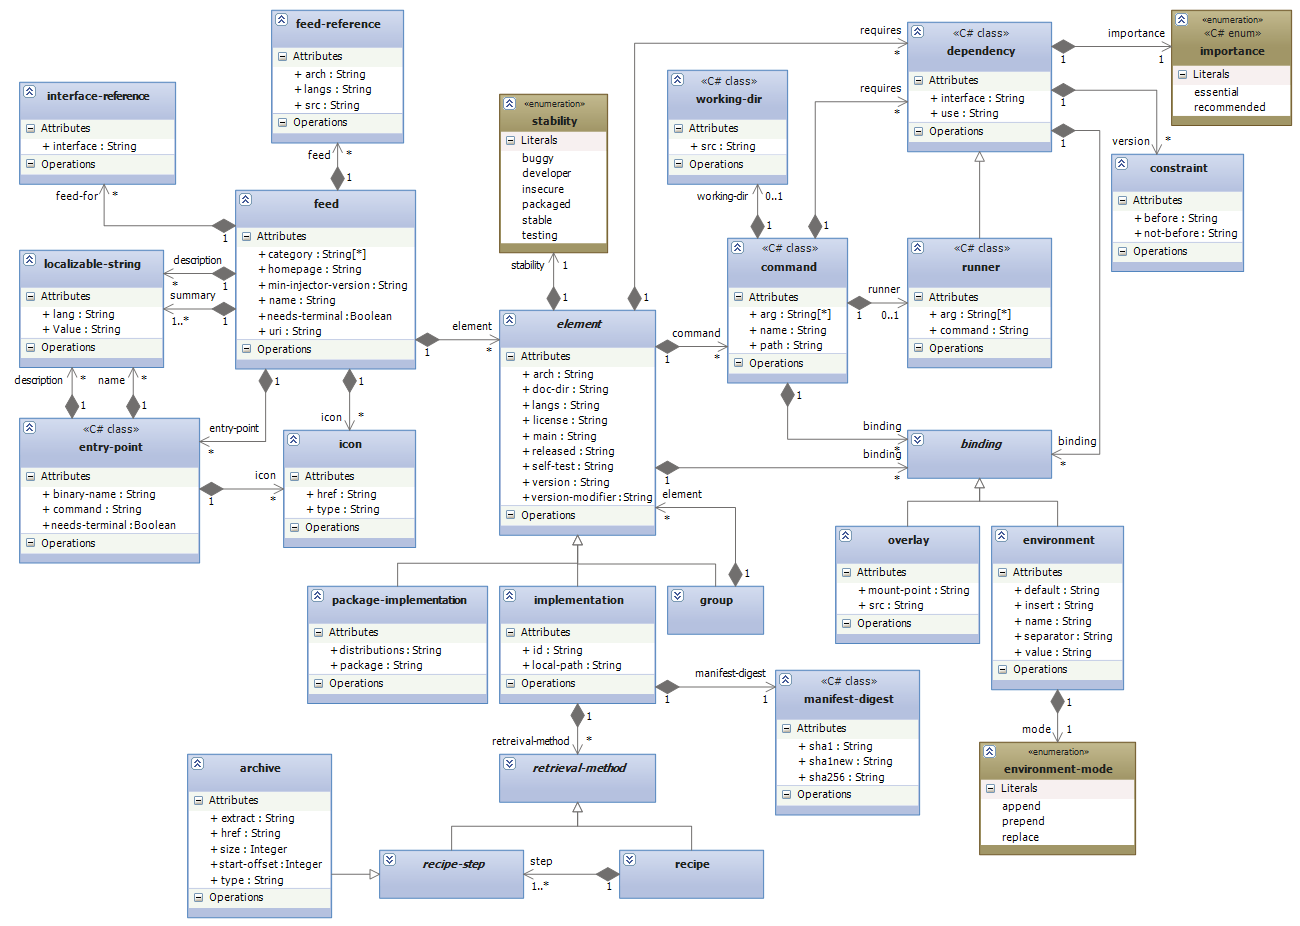
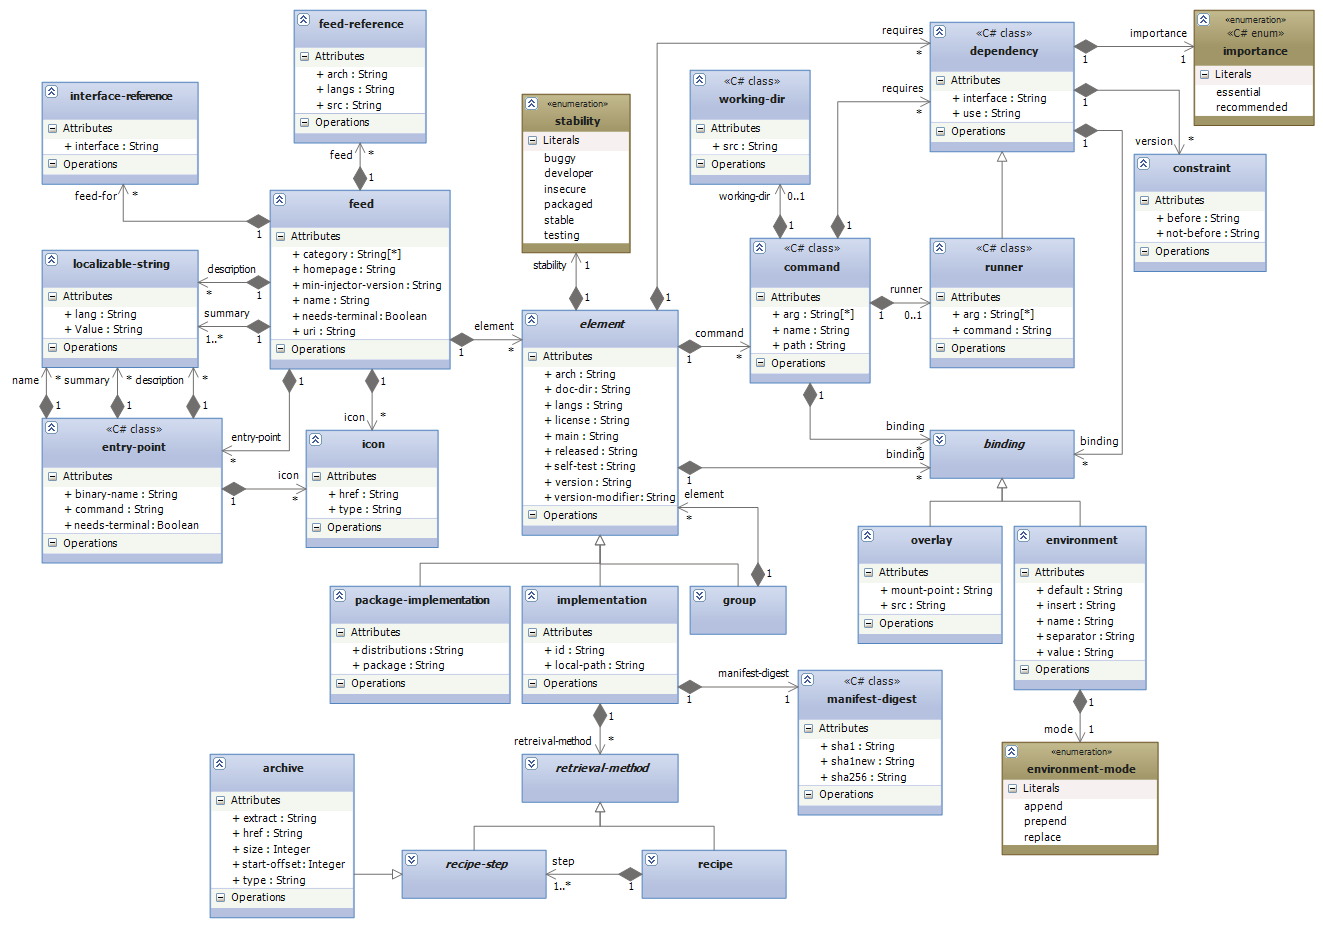
Added <summary> tag to <entry-point>

diff --git a/src/Model/EntryPoint.cs b/src/Model/EntryPoint.cs
@@ -72,11 +72,20 @@ namespace ZeroInstall.Model
         // Note: Can not use ICollection<T> interface because of XML Serialization
         public LocalizableStringCollection Names { get { return _names; } }
 
+        private readonly LocalizableStringCollection _summaries = new LocalizableStringCollection();
+        /// <summary>
+        /// Short one-line descriptions for different languages; the first word should not be upper-case unless it is a proper noun (e.g. "cures all ills").
+        /// </summary>
+        [Description("Short one-line descriptions for different languages; the first word should not be upper-case unless it is a proper noun (e.g. \"cures all ills\").")]
+        [XmlElement("summary")]
+        // Note: Can not use ICollection<T> interface because of XML Serialization
+        public LocalizableStringCollection Summaries { get { return _summaries; } }
+
         private readonly LocalizableStringCollection _descriptions = new LocalizableStringCollection();
         /// <summary>
-        /// Short descriptions of the command in different languages.
+        /// Full descriptions for different languages, which can be several paragraphs long.
         /// </summary>
-        [Description("Short descriptions of the command in different languages.")]
+        [Description("Full descriptions for different languages, which can be several paragraphs long.")]
         [XmlElement("description")]
         // Note: Can not use ICollection<T> interface because of XML Serialization
         public LocalizableStringCollection Descriptions { get { return _descriptions; } }
@@ -113,6 +122,7 @@ namespace ZeroInstall.Model
         {
             var newEntryPoint = new EntryPoint {Command = Command, BinaryName = BinaryName, NeedsTerminal = NeedsTerminal};
             foreach (var name in Names) newEntryPoint.Names.Add(name.CloneString());
+            foreach (var summary in Summaries) newEntryPoint.Summaries.Add(summary.CloneString());
             foreach (var description in Descriptions) newEntryPoint.Descriptions.Add(description.CloneString());
             newEntryPoint.Icons.AddAll(Icons);
 
@@ -136,7 +146,7 @@ namespace ZeroInstall.Model
             if (other == null) return false;
 
             return Command == other.Command && BinaryName == other.BinaryName && NeedsTerminal == other.NeedsTerminal &&
-                Names.SequencedEquals(other.Names) && Descriptions.SequencedEquals(other.Descriptions) && Icons.SequencedEquals(other.Icons);
+                Names.SequencedEquals(other.Names) && Summaries.SequencedEquals(other.Summaries) && Descriptions.SequencedEquals(other.Descriptions) && Icons.SequencedEquals(other.Icons);
         }
 
         /// <inheritdoc/>
@@ -156,6 +166,7 @@ namespace ZeroInstall.Model
                 result = (result * 397) ^ (BinaryName ?? "").GetHashCode();
                 result = (result * 397) ^ NeedsTerminal.GetHashCode();
                 result = (result * 397) ^ Names.GetSequencedHashCode();
+                result = (result * 397) ^ Summaries.GetSequencedHashCode();
                 result = (result * 397) ^ Descriptions.GetSequencedHashCode();
                 result = (result * 397) ^ Icons.GetSequencedHashCode();
                 return result;

diff --git a/src/Model/Feed.cs b/src/Model/Feed.cs
@@ -314,23 +314,23 @@ namespace ZeroInstall.Model
         }
 
         /// <summary>
-        /// Returns the best matching description for a specific <see cref="Command"/>/<see cref="EntryPoint"/>. Will fall back to <see cref="Descriptions"/>.
+        /// Returns the best matching summary for a specific <see cref="Command"/>/<see cref="EntryPoint"/>. Will fall back to <see cref="Summaries"/>.
         /// </summary>
         /// <param name="language">The language to look for; use <see cref="CultureInfo.InvariantCulture"/> for none.</param>
-        /// <param name="command">The name of the command the description should represent; may be <see langword="null"/>.</param>
-        /// <returns>The best matching description that was found; <see langword="null"/> if no matching description was found.</returns>
-        public string GetDescription(CultureInfo language, string command)
+        /// <param name="command">The name of the command the summary should represent; may be <see langword="null"/>.</param>
+        /// <returns>The best matching summary that was found; <see langword="null"/> if no matching summary was found.</returns>
+        public string GetSummary(CultureInfo language, string command)
         {
             if (string.IsNullOrEmpty(command)) command = Command.NameRun;
 
             var entryPoint = GetEntryPoint(command);
             if (entryPoint != null)
             {
-                string description = entryPoint.Descriptions.GetBestLanguage(language);
-                if (!string.IsNullOrEmpty(description)) return description;
+                string summary = entryPoint.Summaries.GetBestLanguage(language);
+                if (!string.IsNullOrEmpty(summary)) return summary;
             }
 
-            return Descriptions.GetBestLanguage(language);
+            return Summaries.GetBestLanguage(language);
         }
 
         /// <summary>

diff --git a/src/Test.Backend/Model/FeedTest.cs b/src/Test.Backend/Model/FeedTest.cs
@@ -53,7 +53,7 @@ namespace ZeroInstall.Model
                     Command = Command.NameRun,
                     BinaryName = "myapp",
                     Names = {"Entry name", {"German entry name", new CultureInfo("de-DE")}},
-                    Descriptions = {"Entry description", {"German entry description", new CultureInfo("de-DE")}},
+                    Summaries = {"Entry summary", {"German entry summary", new CultureInfo("de-DE")}},
                     Icons = {new Icon(new Uri("http://0install.de/feeds/images/test_command.png"), Icon.MimeTypePng), new Icon(new Uri("http://0install.de/feeds/images/test_command.ico"), Icon.MimeTypeIco)}
                 }}
             };
@@ -253,15 +253,15 @@ namespace ZeroInstall.Model
         }
 
         /// <summary>
-        /// Ensures that <see cref="Feed.GetDescription"/> correctly finds best matching descriptions for <see cref="Command"/>s/<see cref="EntryPoint"/>s.
+        /// Ensures that <see cref="Feed.GetSummary"/> correctly finds best matching summaries for <see cref="Command"/>s/<see cref="EntryPoint"/>s.
         /// </summary>
         [Test]
-        public void TestGetDescription()
+        public void TestGetSummary()
         {
             var feed = CreateTestFeed();
 
-            Assert.AreEqual("Entry description", feed.GetDescription(CultureInfo.InvariantCulture, Command.NameRun));
-            Assert.AreEqual("Default description", feed.GetDescription(CultureInfo.InvariantCulture, "unknown"));
+            Assert.AreEqual("Entry summary", feed.GetSummary(CultureInfo.InvariantCulture, Command.NameRun));
+            Assert.AreEqual("Default summary", feed.GetSummary(CultureInfo.InvariantCulture, "unknown"));
         }
 
         /// <summary>
